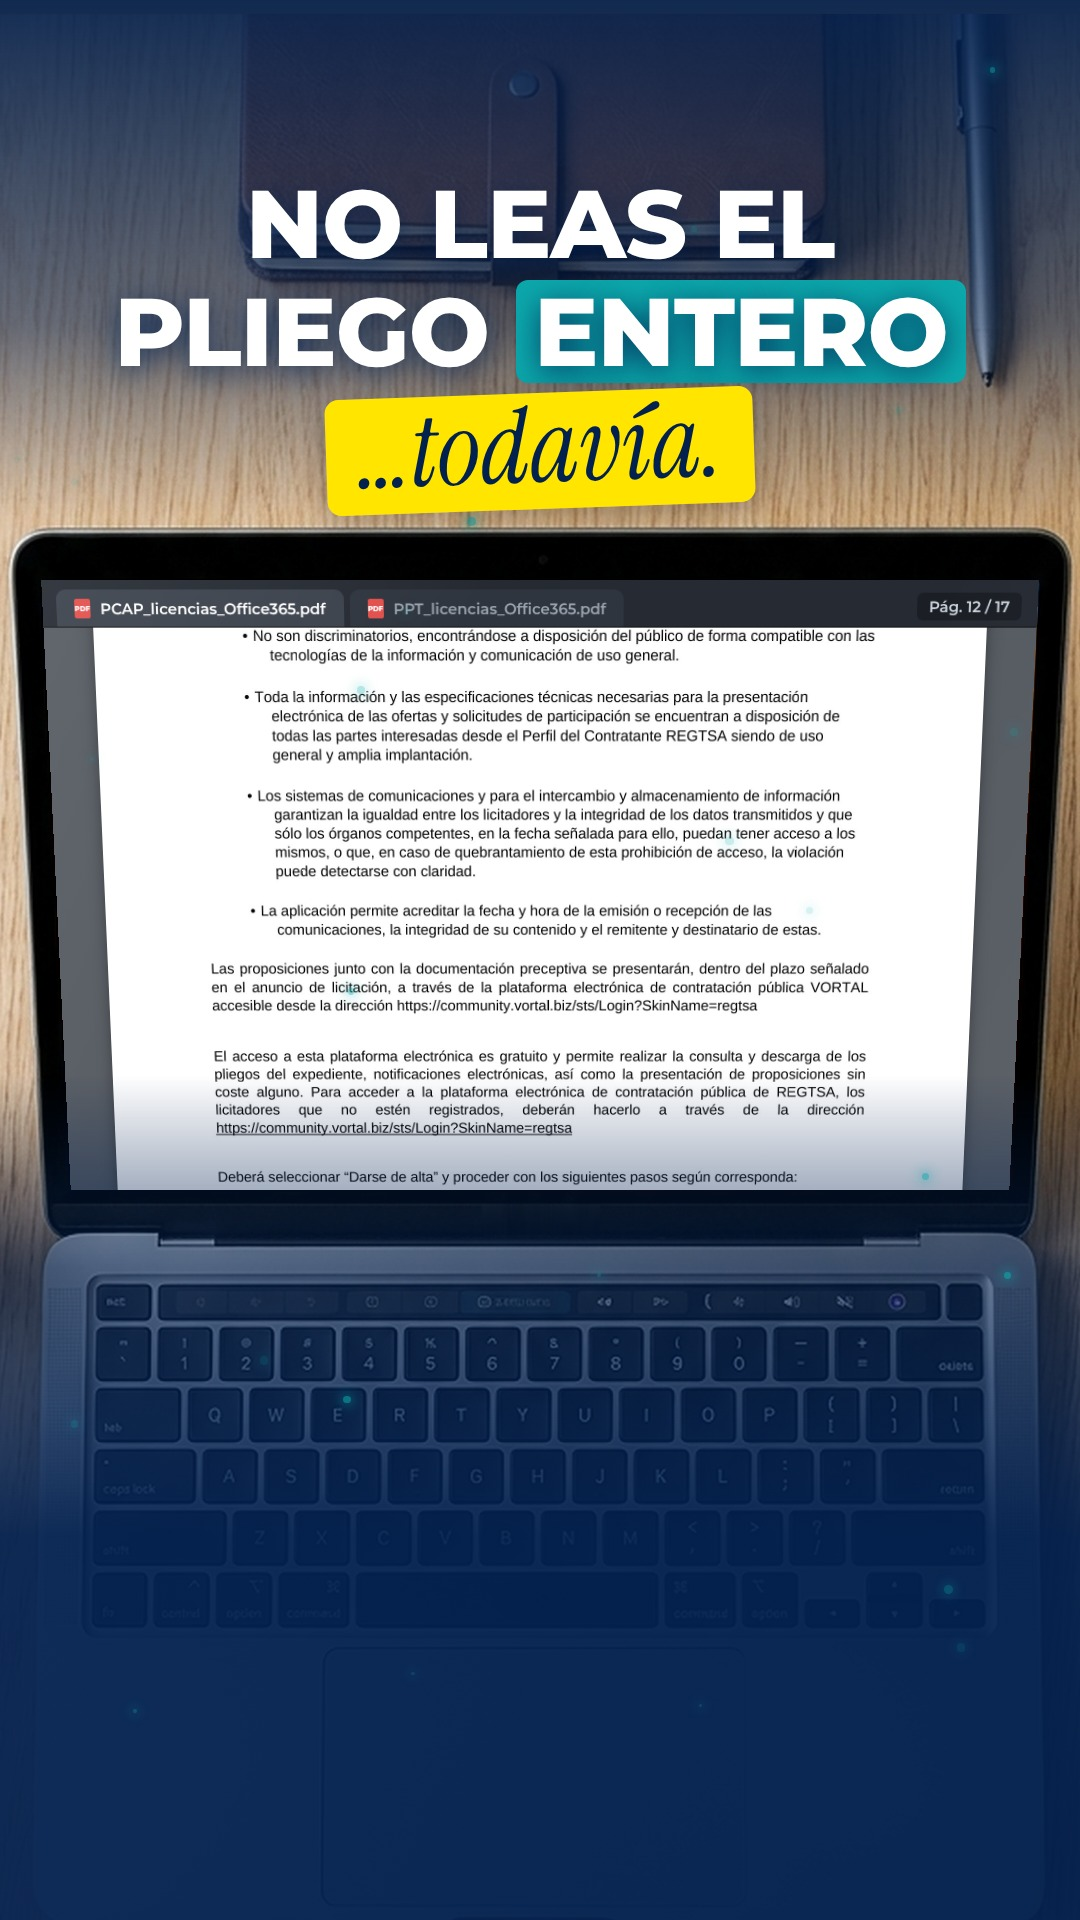
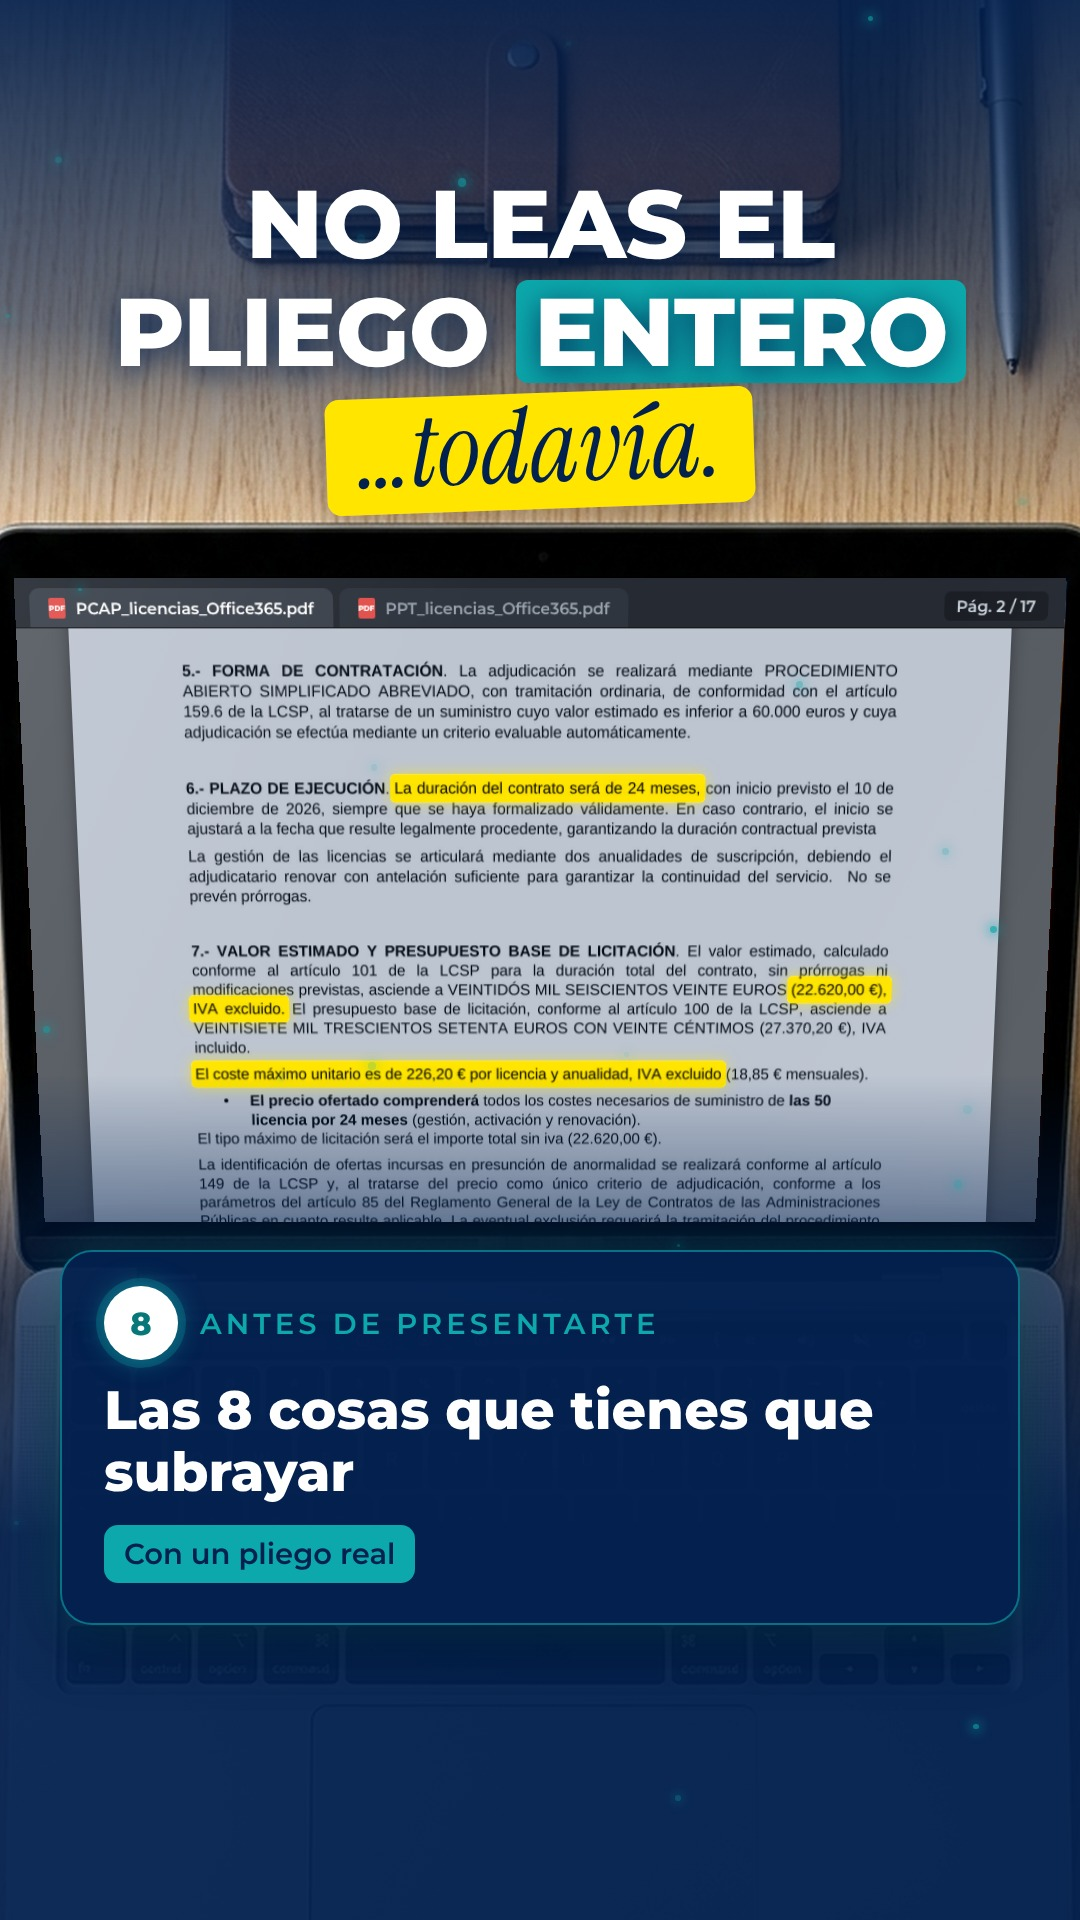
Reel analizar licitación: nueva portada con el pliego subrayado
Claude-Session: https://claude.ai/code/session_01G7Cs1ZLh1vBptXfB1AUSR8

diff --git a/reel-analizar-licitacion/_motor/cover.js b/reel-analizar-licitacion/_motor/cover.js
@@ -1,0 +1,19 @@
+const { chromium } = require('playwright'); const path = require('path');
+(async () => {
+  const b = await chromium.launch(); const p = await b.newPage({ viewport: { width: 1080, height: 1920 } });
+  await p.goto('file://' + path.join(__dirname, 'reel.html')); await p.evaluate(() => window.ready);
+  await p.evaluate(() => {
+    window.render(13.5);
+    const $ = id => document.getElementById(id);
+    const s = 1.95, cy = 900; $('world').style.transform = `translate(${540 - 437.5 * s}px,${cy - 471.5 * s}px) scale(${s})`;
+    document.querySelectorAll('.dim').forEach(e => e.style.opacity = 0.45);
+    $('hook').style.opacity = 1; $('hook').style.transform = 'none';
+    $('todavia').style.opacity = 1; $('todavia').style.transform = 'none'; $('tdm').style.backgroundSize = '100% 100%';
+    $('hdr').style.opacity = 0;
+    const C = $('cap'); C.style.opacity = 1; C.style.transform = 'none'; C.style.top = '1250px';
+    $('capn').textContent = '8'; $('capl').textContent = 'Antes de presentarte';
+    $('capq').textContent = 'Las 8 cosas que tienes que subrayar'; $('capd').textContent = 'Con un pliego real';
+  });
+  await p.screenshot({ path: path.join(__dirname, 'portada.jpg'), type: 'jpeg', quality: 92 });
+  await b.close();
+})();
